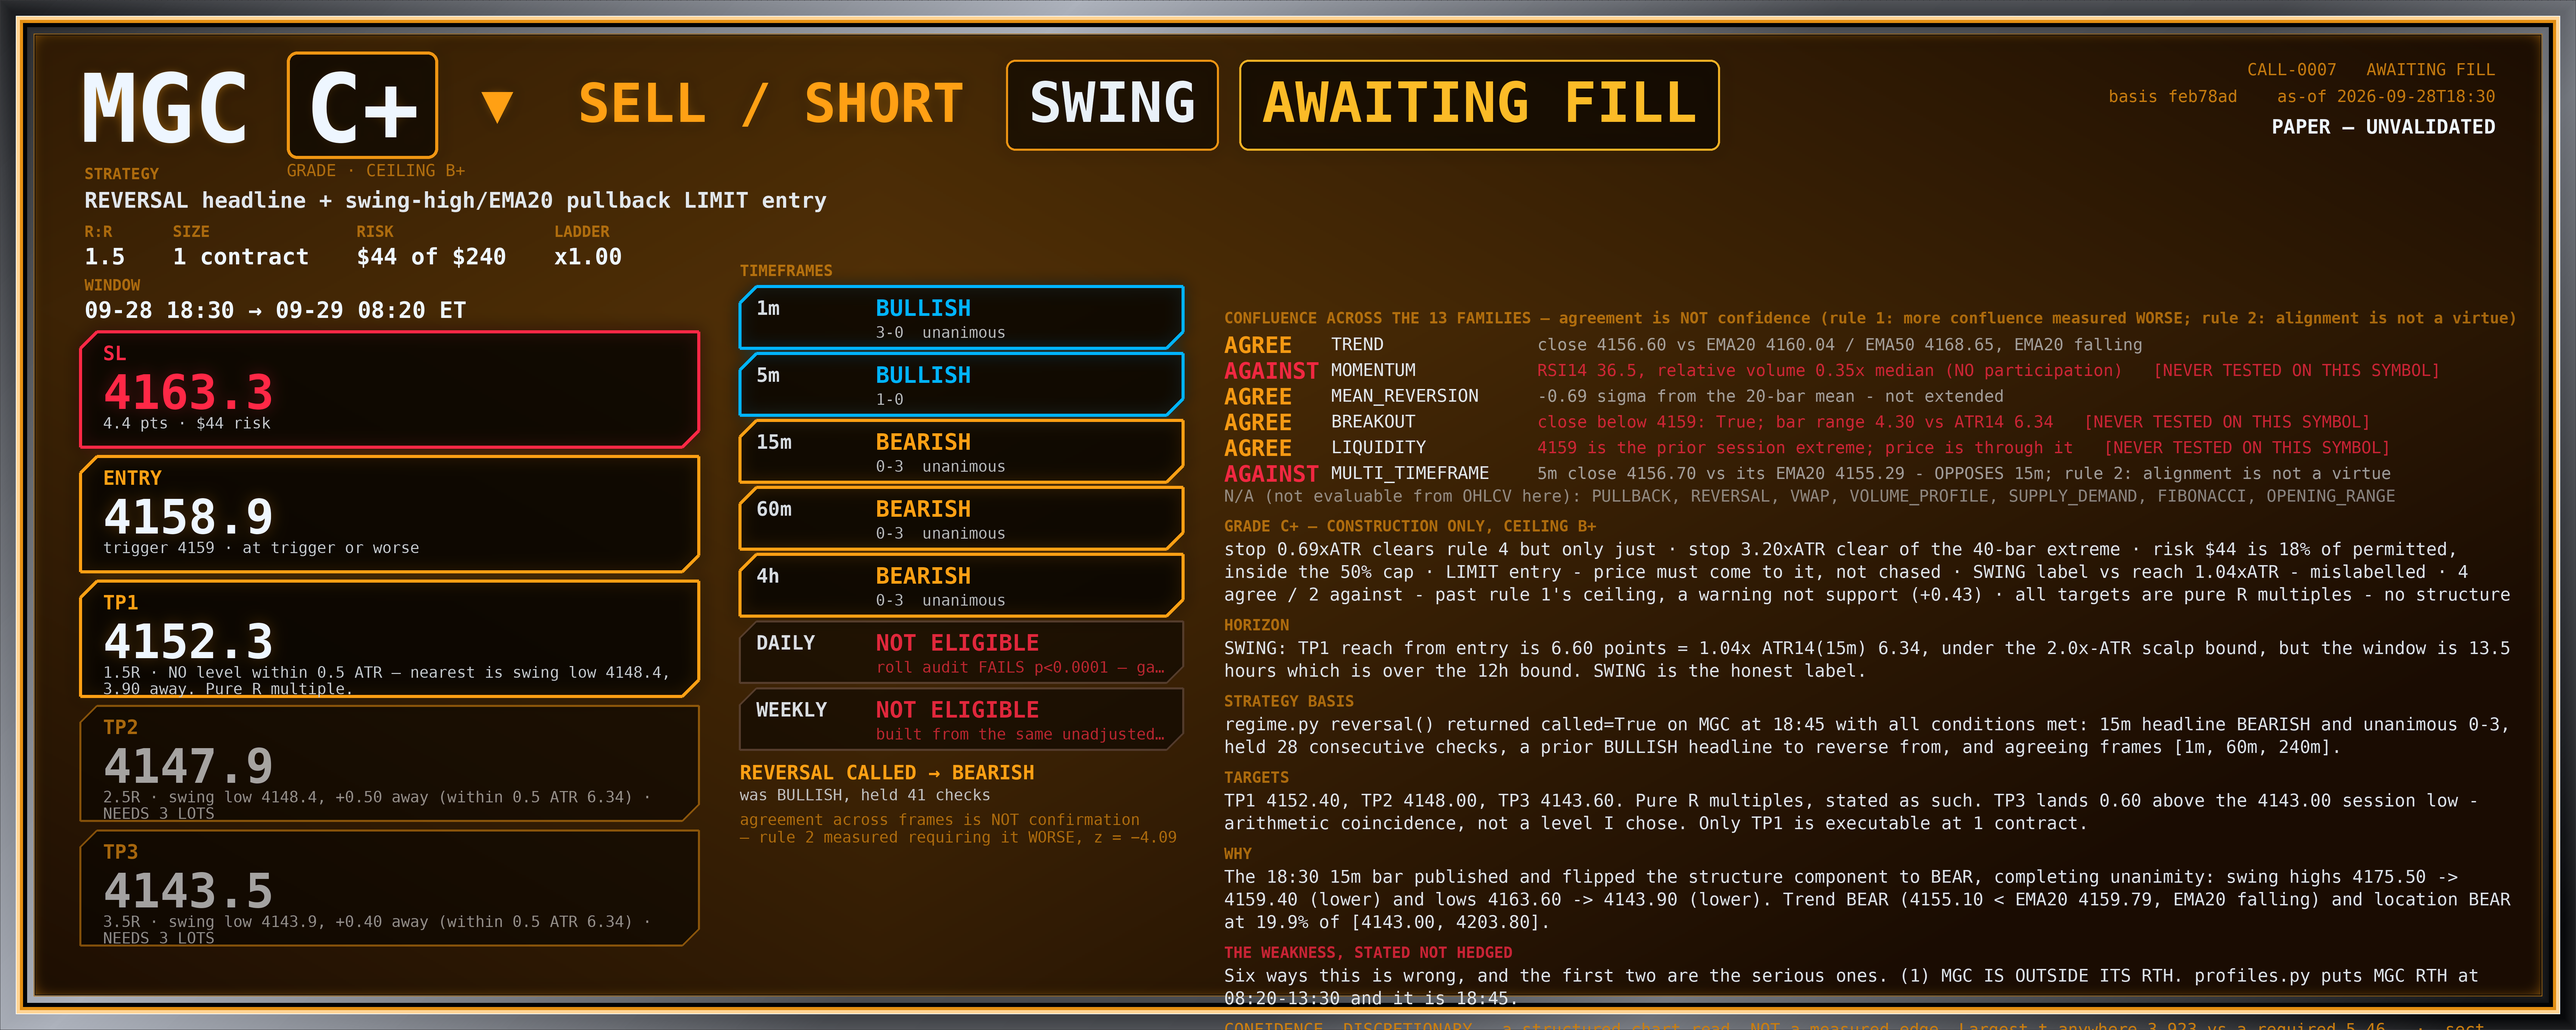
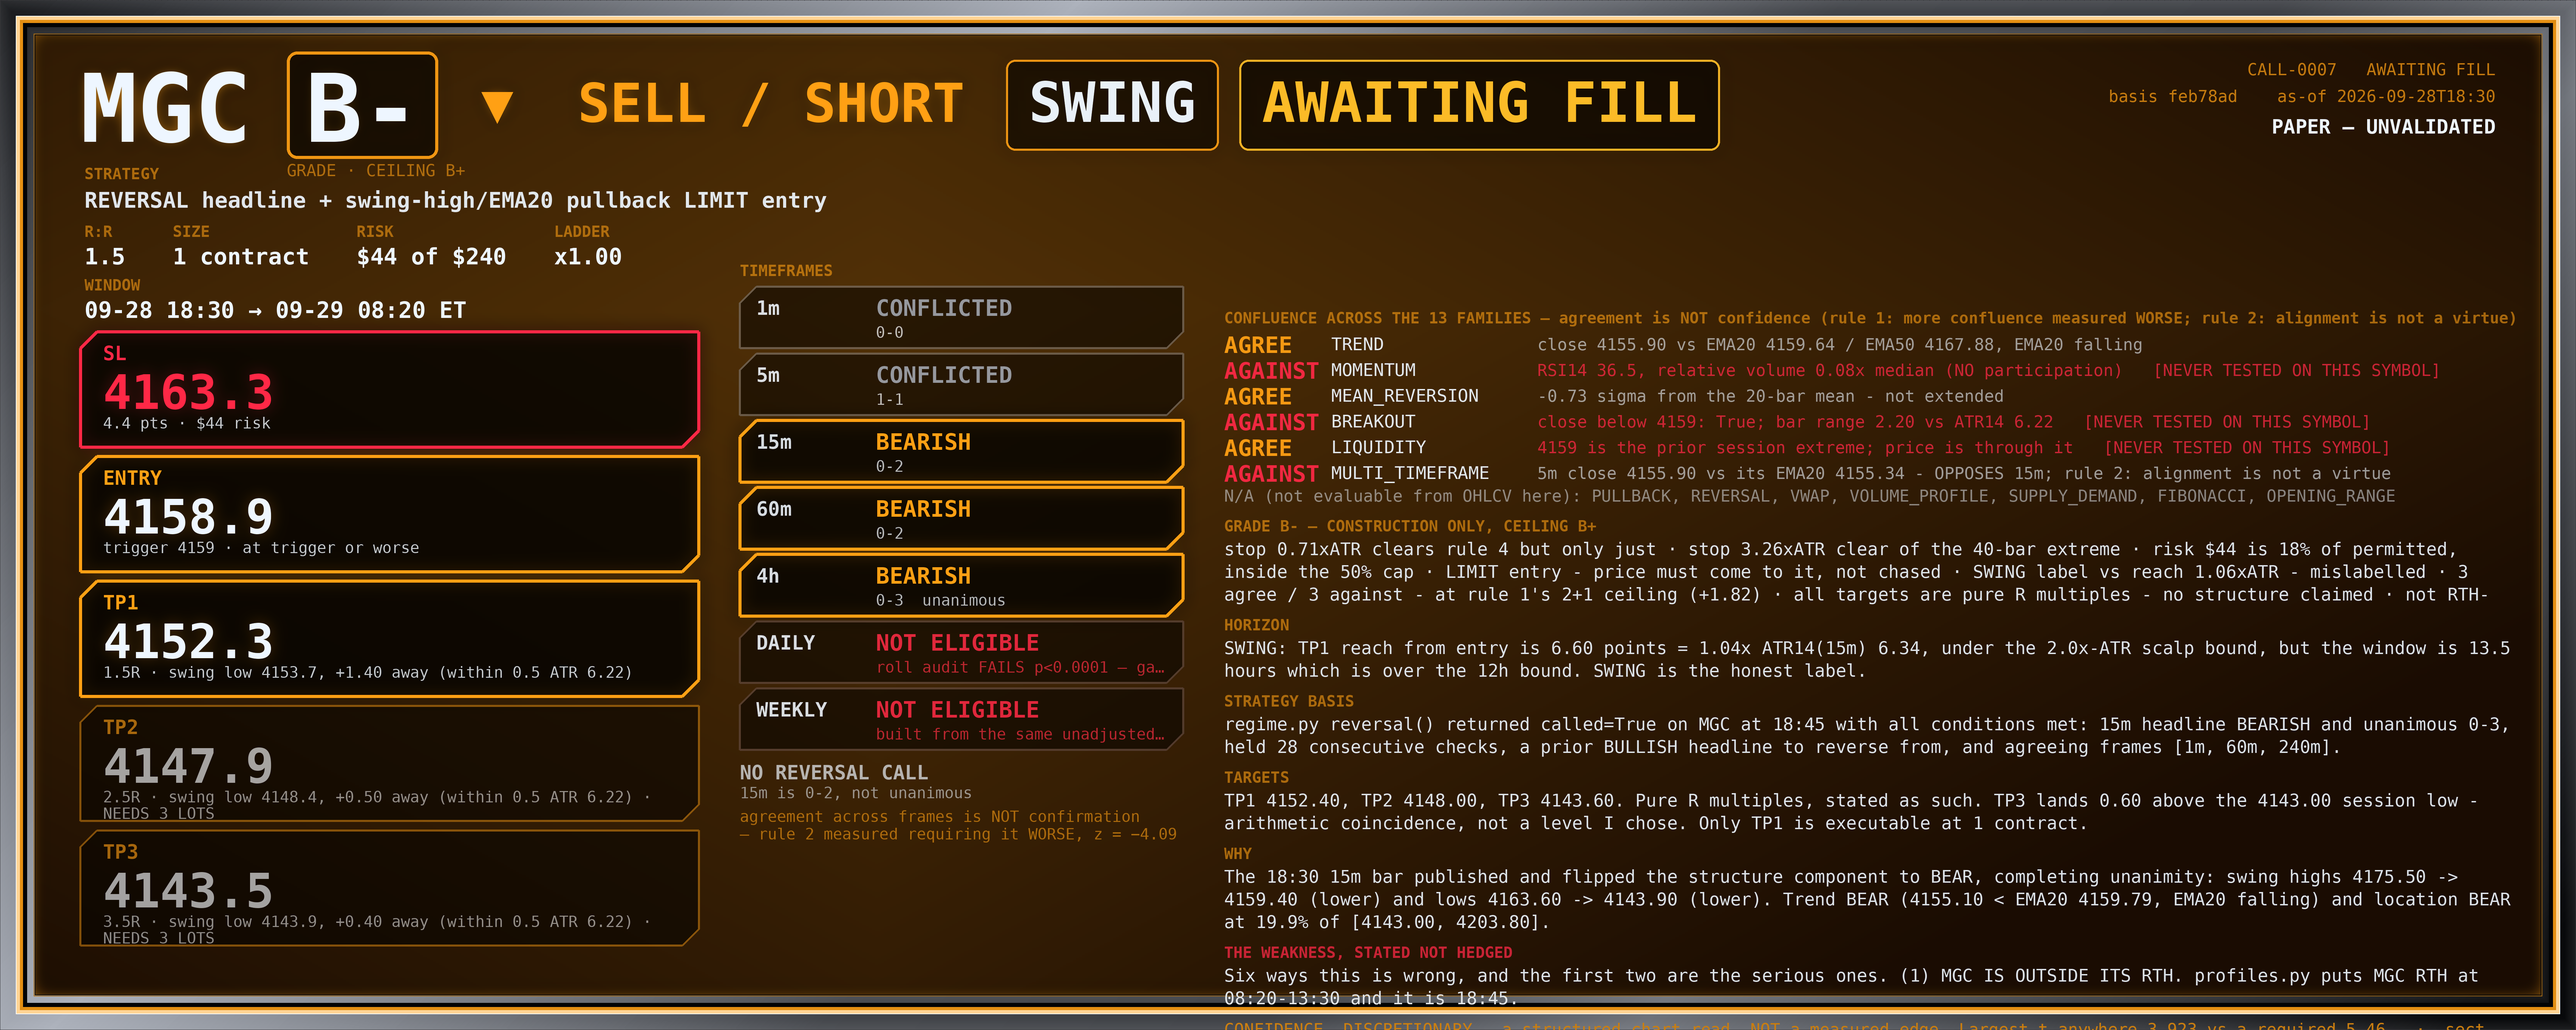
CALL desk: 19:00 - the 18:45 15m bar prints a higher low and MGC's reversal call LAPSES; CALL-0007 left untouched per N8, the lapse reported as a live weakness rather than fixed by a post-hoc void rule
Claude-Session: https://claude.ai/code/session_01EE6PFk7fGa2tM4KP6dpfWD

diff --git a/workspace/paper/CALL/DECISIONS.md b/workspace/paper/CALL/DECISIONS.md
@@ -60,6 +60,7 @@ the second is how a veto flatters itself and quoting only the first is how a tra
 | 18 | 16:58 | **Found and fixed the runaway cadence — it was mine.** `CronCreate` schedules in the container's local time, which is UTC; I wrote the windows in Eastern, so `*/2 18-23` meant 14:00–19:59 ET and the "closed" desk fired all afternoon. All three jobs re-cut in UTC | I told the owner twice the firings were not from a job I controlled, having checked `CronList` and `list_triggers` but never **which clock the expression is measured in** — two schedulers showing nothing at 16:20 ET proves nothing when the job is keyed to 20:20 UTC | ~40 stray firings stopped; the desk is now genuinely silent 15:30–18:00 ET | the fix is dated: these expressions assume EDT and must be re-cut on 2026-11-01 when Eastern goes to EST, or the desk reopens an hour early |
 | 19 | 18:34 | **Cadence outage — the session crons died with the worker again** (second time today, after ~12:55). `CronList` was empty at the 18:00 open; all three re-created in UTC. 34 minutes of the open window lost, found only because the owner asked | **34 min unwatched at the open**, the most active part of the evening session; and the fix I made an hour earlier is what hid it — my own "no tool calls outside the window" rule told the 17:52 hourly backstop not to run `CronList`, removing the one pre-open verification that would have caught this | nothing was missed in the book: 0 pending, 0 open the whole time, so no fill, stop or expiry went unseen | over-tightening the silence rule disabled the repair mechanism. The out-of-window hourly must verify the jobs — one cheap call, silent unless it repairs |
 | 20 | 18:47 | **CALL-0007 — SHORT MGC pre-registered.** First MGC reversal call of the session; 15m went unanimous 0-3 when the 18:30 bar flipped structure to BEAR. LIMIT SELL 4159.00, stop 4163.40 (4.40 pts = 0.69x ATR), TP1 4152.40, 1 contract, $44 risk = 18.3% of permitted | if it fills and stops out: **−$44 (−1R)**. If it never fills, the 4th consecutive limit miss and the setup is gone | the gate opened for the first time today with both vetoes clear; taking nothing would have been refusing the desk's only entry mechanism at the one moment it said yes | **outside MGC RTH (ended 13:30) on 10-27% of normal liquidity** — deliberately sized to 18% of permitted rather than the 50% cap, because thinner evidence earns less size, not a wider stop |
+| 21 | 19:00 | **The gate that produced CALL-0007 has LAPSED, and I am not touching the plan.** The 18:45 15m bar printed a higher low (4143.90 → 4153.70), flipping MGC structure BEAR → MIXED; 15m is now 0-2 and `regime.py` no longer calls the reversal | the plan stays live on evidence that has weakened, so a fill now is a fill on a condition that no longer holds — that is a real, live cost and it is on the card | N8 is the reason: do not edit a pre-registered plan after watching price. Installing a "gate lapsed" void condition now, mid-flight, having just watched the gate lapse, would be the exact post-hoc rule change the desk exists to prevent | **deferred to the parent, not installed:** should a PENDING plan die when its originating gate lapses? Genuine design question. It must be pre-registered and tested, never bolted on while a plan is live |
 
 ### What the tally actually says
 
